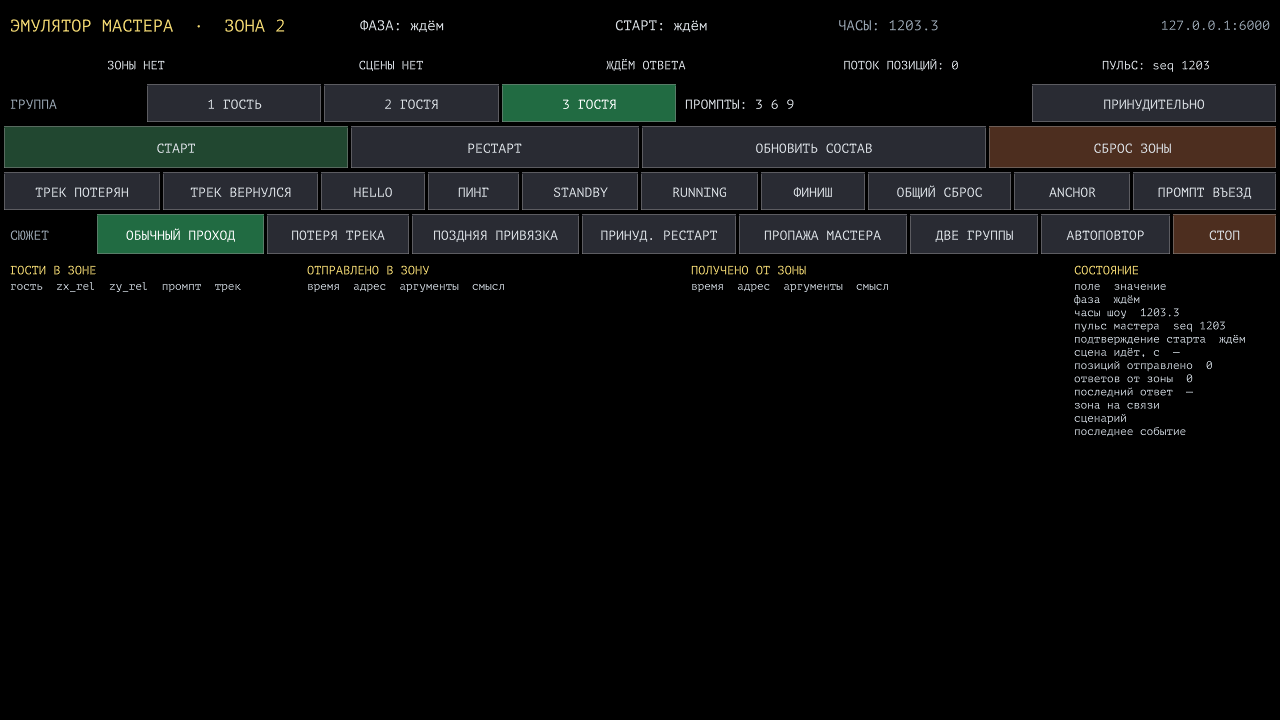
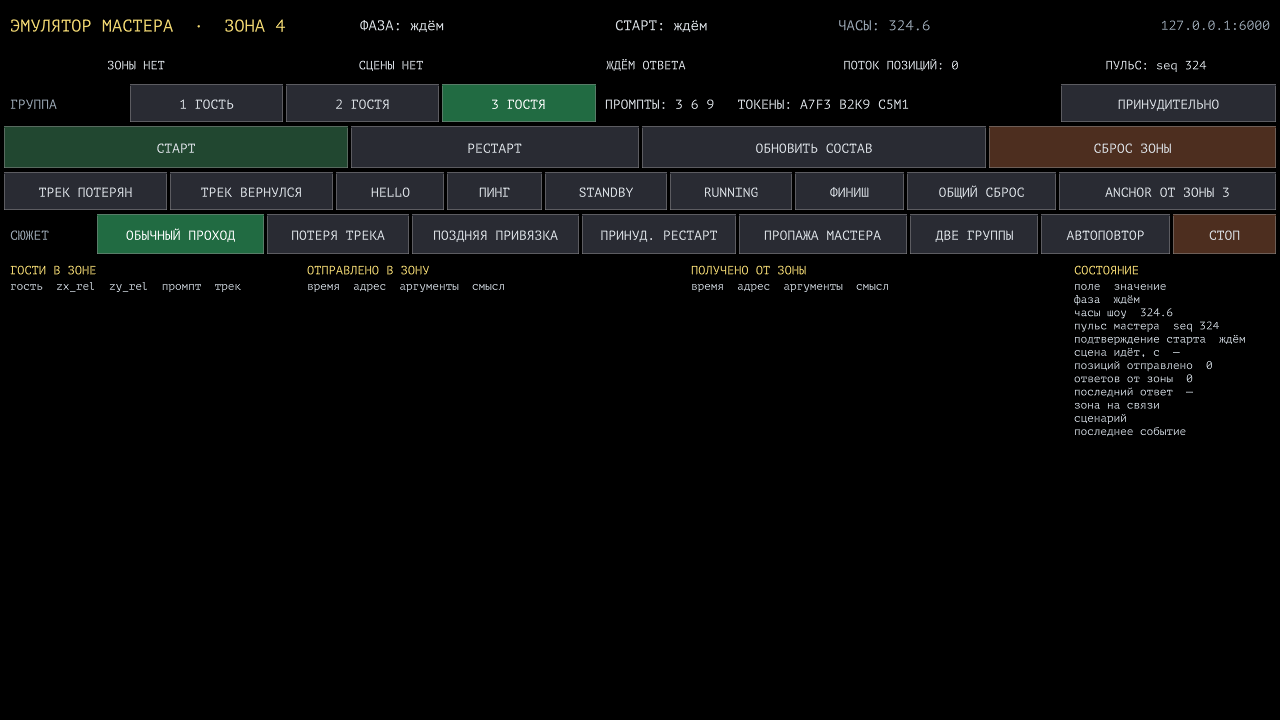
зона 4: anchor от зоны 3 с редактируемыми токенами; из контракта убраны звуковые триггеры (идут напрямую звуковику) и позиция промпта; спека v3.6

diff --git a/docs/PROTOCOL.md b/docs/PROTOCOL.md
@@ -54,7 +54,6 @@
 | `/zoneN/guest/<idx>/state` | `tracked:int` | `0` — трек гостя потерян, `1` — вернулся |
 | `/zoneN/count` | `n:int` | сколько гостей сейчас в зоне |
 | `/zoneN/anchor` | `guestCount:int, t1:str, t2:str, t3:str` | итог зоны 3, переданный дальше; токенов всегда три, лишние — пустые строки |
-| `/zoneN/prompt/enter` | `uuid:str, guest:int, y_rel:float` | промпт въезжает из соседней зоны |
 
 **Зона о сессиях не знает.** Всё, что ей нужно, приходит в `start`: сколько гостей и какие у них промпты. Гость внутри зоны — просто `idx` от 1 до `guestCount`, в том же порядке, что и промпты в старте.
 
@@ -88,8 +87,8 @@
 | `/zoneN/session/start` | — | отмечает: сцена реально пошла |
 | `/zoneN/session/end` | — | останавливает поток трекинга и **запускает зону N+1** тем же составом |
 | `/zone3/anchor` | `guestCount:int, t1:str, t2:str, t3:str` | записывает токены гостей и передаёт их дальше по тоннелю (мастер добивает до трёх токенов пустыми строками) |
-| `/zoneN/sound/<триггер>` | любые | кладёт в `sound_engine` (лог, дальше — звук) |
-| `/zoneN/prompt/exit` | `uuid:str, guest:int, y_rel:float` | ретранслирует зоне N+1 как `prompt/enter` |
+
+**Звук и позиция промпта через мастер не идут.** Звуковые триггеры зоны шлют напрямую звуковому компу — мастеру они не адресованы. Передача позиции промпта между зонами (`prompt/enter` / `prompt/exit`) из сценария ушла. Приёмники в мастере остались и залогируют, если что-то прилетит, но частью контракта это больше не является.
 
 Каждая зона шлёт `ping` раз в секунду — по нему мастер рисует лампочки на приборной панели и ведёт журнал компов.
 
@@ -143,7 +142,8 @@
 - На `/show/hello` — сбросить сцену в исходное и ответить `ping` (мастер перезапустился).
 - Следить за `/show/heartbeat`: пропал дольше 3–5 с — мастер недоступен, показать это на своей стороне; `seq` пошёл заново — мастер перезапустился.
 - В конце слать `/zoneN/session/end` — мастер остановит поток и запустит следующую зону.
-- Звук — `/zoneN/sound/<триггер>`; зона 3 в конце — `/zone3/anchor guestCount t1 t2 t3`.
+- Зона 3 в конце — `/zone3/anchor guestCount t1 t2 t3` (мастер передаёт это зоне 4 как `/zone4/anchor`).
+- Звук мастеру не шлём: триггеры идут напрямую звуковому компу.
 
 ## 7. Чего ещё нет
 

diff --git a/docs/OSC_EXAMPLE.md b/docs/OSC_EXAMPLE.md
@@ -98,16 +98,29 @@
 
 ```
 /zone2/ping             1                     ← раз в секунду, обязательно (таймаут 6 с)
-/zone2/session/start                          ← сцена реально пошла (подтверждение старта)
-/zone2/session/end                            ← сцена закончена → мастер молчит и запускает зону 3
-/zone2/sound/<триггер>  любые                 ← звуковой триггер
+/zone2/session/start    1                     ← сцена реально пошла (подтверждение старта)
+/zone2/session/end      1                     ← сцена закончена → мастер молчит и запускает зону 3
 ```
+
+Больше ничего. **Звук мастеру не шлём** — триггеры идут напрямую звуковому компу.
 
 Только зона 3 дополнительно шлёт в конце:
 
 ```
 /zone3/anchor  guestCount:int  t1:str  t2:str  t3:str
 ```
+
+## 7. Особое для зоны 4
+
+Зона 4 получает всё то же, что и остальные, плюс **итог зоны 3** — токены гостей, пришедшие по цепочке:
+
+```
+/zone4/anchor  3  A7F3  B2K9  C5M1
+```
+
+Токенов всегда три, лишние — пустые строки: `/zone4/anchor 1 A7F3 "" ""`. Читать нужно первые `guestCount` штук.
+
+В эмуляторе для этого есть кнопка **ANCHOR ОТ ЗОНЫ 3** (подпись меняется, когда выбрана зона 4), а сами токены задаются полями `Token1..3` — можно прогнать свои строки, а не демонстрационные.
 
 ---
 
